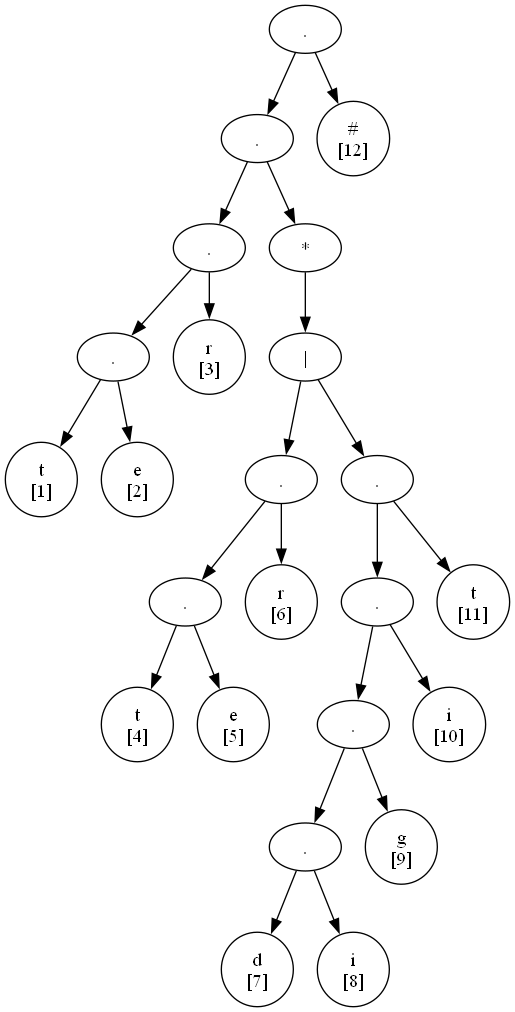
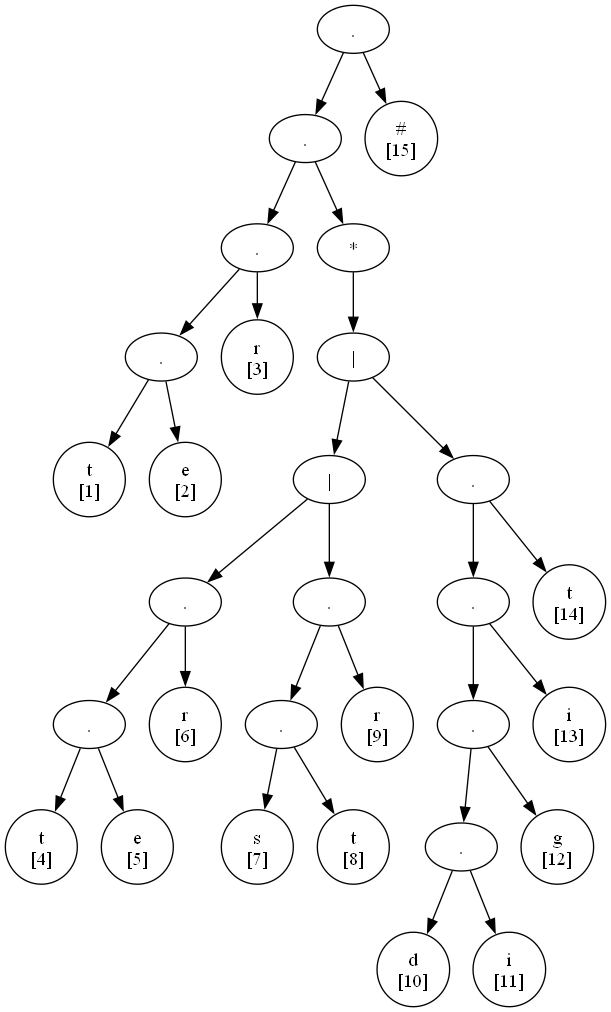
Reconocer 4 yal

diff --git a/src/utils/syntax_tree/build_tree.py b/src/utils/syntax_tree/build_tree.py
@@ -18,6 +18,9 @@ def build_syntax_tree(postfix):
     pos_to_symbol = {}
 
     for token in postfix:
+        print(f"[DEBUG] Procesando token: {token}")
+        
+        # Para operadores unarios (como *, +, ?)
         if token in {'*', '+', '?'}:
             if len(stack) < 1:
                 raise ValueError(f"Error: operador unario '{token}' sin operando suficiente. Stack actual: {stack}")
@@ -25,15 +28,45 @@ def build_syntax_tree(postfix):
             node = TreeNode(token)
             node.left = child
             stack.append(node)
+            print(f"[DEBUG] Pushed unary operator tree for {token}")
 
+        # Para operadores binarios (|, .)
         elif token in {'|', '.'}:
-            if len(stack) < 2:
-                raise ValueError(f"Error: operador binario '{token}' sin operandos suficientes. Stack actual: {stack}")
-            right = stack.pop()
-            left = stack.pop()
-            node = TreeNode(token, left, right)
-            stack.append(node)
+            print(f"[DEBUG] Stack antes de procesar el operador {token}: {stack}")
+            if token == '|':
+                if len(stack) < 2:
+                    raise ValueError(f"Error: operador binario '{token}' sin operandos suficientes para alternancia. Stack actual: {stack}")
+                right = stack.pop()
+                left = stack.pop()
+                print(f"[DEBUG] Operador binario | con operando izquierdo: {left.value} y derecho: {right.value}")
+                # Alternancia, si el operando derecho es ε, no lo añadimos a la pila
+                if right.value == "ε":
+                    stack.append(left)  # Solo se añade el operando izquierdo
+                else:
+                    node = TreeNode(token, left, right)
+                    stack.append(node)
+                print(f"[DEBUG] Alternancia con operando izquierdo: {left.value} y derecho: {right.value}")
+            
+            elif token == '.':
+                # Comprobamos si la pila tiene al menos 2 operandos
+                if len(stack) < 2:
+                    print(f"[DEBUG] No hay suficientes operandos para procesar el operador '.'. Stack actual: {stack}")
+                    continue  # No procesamos el operador hasta que haya suficientes operandos
 
+                right = stack.pop()
+                left = stack.pop()
+                print(f"[DEBUG] Operador binario . con operando izquierdo: {left.value} y derecho: {right.value}")
+                
+                # Concatenación, si el operando derecho es ε, solo agregamos el izquierdo
+                if right.value == "ε":
+                    print(f"[DEBUG] Concatenación con ε, solo agregando el operando izquierdo.")
+                    stack.append(left)
+                else:
+                    node = TreeNode(token, left, right)
+                    stack.append(node)
+                    print(f"[DEBUG] Concatenando {left.value} y {right.value}")
+
+        # Para operadores literales (tokens)
         else:
             node = TreeNode(token)
             node.position = position_counter[0]
@@ -41,8 +74,12 @@ def build_syntax_tree(postfix):
             node.firstpos = {node.position}
             node.lastpos = {node.position}
             stack.append(node)
+            print(f"[DEBUG] Literal procesado: {token}, pos: {node.position}")
             position_counter[0] += 1
 
+        print(f"[DEBUG] Stack actual después de procesar el token {token}: {stack}")
+    
+    # Verificar que la pila contenga solo un nodo (el árbol completo)
     if len(stack) != 1:
         raise ValueError(f"Error: el stack no tiene exactamente un árbol al final. Stack actual: {stack}")
 

diff --git a/src/utils/expand_expression.py b/src/utils/expand_expression.py
@@ -22,13 +22,13 @@ def replace_whole_word(s, word, replacement):
 
 def expand_lets(expr, definitions):
     changed = True
-    max_depth = 10  # para evitar loops infinitos
+    max_depth = 10
     depth = 0
     while changed and depth < max_depth:
         changed = False
         for ident, rule in definitions.items():
             if ident == rule:
-                continue  # evitar auto-referencias
+                continue
             pattern = f"({rule})"
             new_expr = replace_whole_word(expr, ident, pattern)
             if new_expr != expr:
@@ -37,7 +37,6 @@ def expand_lets(expr, definitions):
         depth += 1
     print(f"[LOG] Después de expand_lets: {expr}")
     return expr
-
 
 def expand_ranges(expr):
     result = ""
@@ -68,7 +67,8 @@ def expand_ranges(expr):
                     ch = content[k]
                     expanded.append(f"\\{ch}" if ch in SPECIAL_OPERATORS else ch)
                     k += 1
-            result += '(' + '|'.join(expanded) + ')'
+            joined = '|'.join(expanded)
+            result += '(' + joined + ')'  # agrupación segura sin comillas
             i = j + 1
         else:
             result += expr[i]
@@ -80,6 +80,9 @@ def escape_literals(expr):
     result = ""
     i = 0
     while i < len(expr):
+        if expr[i] == '"':
+            i += 1
+            continue
         if expr[i] == "'":
             j = i + 1
             literal = ""
@@ -100,15 +103,11 @@ def escape_literals(expr):
                 else:
                     literal += expr[j]
                     j += 1
-            if literal == "":
-                result += ""
-            else:
-
+            if literal:
                 result += '|'.join([
                     f"\\{ch}" if ch in SPECIAL_OPERATORS or not ch.isalnum() else ch
                     for ch in literal
                 ])
-
             i = j + 1
         else:
             result += expr[i]
@@ -173,10 +172,26 @@ def expand_expression(expr, definitions):
     expr = expand_lets(expr, definitions)
     expr = expand_ranges(expr)
     expr = escape_literals(expr)
-    expr = expr.replace(' ', '\\s')  # opcional según la semántica
+    expr = expr.replace(' ', '\\s')  # opcional
     expr = convert_plus(expr)
     expr = convert_optional(expr)
     expr = simplify_parens(expr)
 
+    # Validación extra para evitar | mal colocado
+    expr = expr.strip('|')  # Evitar '|' al inicio o final
+
+    if not validar_parentesis_balanceados(expr):
+        raise ValueError(f"❌ Paréntesis no balanceados en expresión final: {expr}")
+
     print(f"[LOG] Final expression: {expr}")
     return expr
+
+
+def validar_parentesis_balanceados(expr):
+    balance = 0
+    for ch in expr:
+        if ch == '(': balance += 1
+        elif ch == ')': balance -= 1
+        if balance < 0:
+            return False
+    return balance == 0

diff --git a/src/main_afd_test.py b/src/main_afd_test.py
@@ -19,22 +19,23 @@ def parse_yalex(file_path):
 
             # Definiciones
             if '=' in line and 'let' not in line:
-                key, value = line.split('=')
+                key, value = line.split('=', 1)
                 key = key.strip()
-
                 value = value.strip()
 
-                # Quitar brackets primero
+                # Quitar brackets exteriores si existen
                 if value.startswith('[') and value.endswith(']'):
-                    value = value[1:-1].strip()
-
-                # Luego quitar comillas si están
-                if (value.startswith('"') and value.endswith('"')) or (value.startswith("'") and value.endswith("'")):
                     value = value[1:-1]
 
+                # Quitar comillas exteriores si existen
+                if (value.startswith('"') and value.endswith('"')) or (value.startswith("'") and value.endswith("'")):
+                    value = value[1:-1].strip()
 
+                # Sanear cualquier comilla interna que haya quedado
+                value = value.replace('"', '').replace("'", '')
 
                 definitions[key] = value
+
 
             # Tokens
             elif line.startswith('let'):
@@ -44,6 +45,8 @@ def parse_yalex(file_path):
                 tokens[token_name] = regex
 
     return definitions, tokens
+
+
 
 
 # Paso 2: Generar AFD por cada token y graficar su árbol de expresión
@@ -82,7 +85,7 @@ def simular_afd(afd, entrada):
 
 # Ejemplo de ejecución:
 if __name__ == "__main__":
-    yal_file = "./yal/slr-2.yal"  # Cambia según el archivo que deseas procesar
+    yal_file = "./yal/slr-4.yal"  # Cambia según el archivo que deseas procesar
 
     if not os.path.exists(yal_file):
         print(f"❌ Archivo {yal_file} no encontrado")

diff --git a/src/regex_parser.py b/src/regex_parser.py
@@ -13,9 +13,14 @@ class RegexParser:
                 next_c = regex[i + 1]
                 if ((curr.isalnum() or curr in [')', '*', '?']) and
                     (next_c.isalnum() or next_c == '(' or next_c == '\\')):
-                    new_regex += '.'
+
+                    # Verificar si ya hay un '|' antes de añadirlo
+                    if new_regex[-1] != '|':
+                        new_regex += '.'
+                        print(f"[DEBUG] Adding concatenation: {curr} . {next_c}")
             i += 1
         return new_regex
+
 
     @staticmethod
     def infix_to_postfix(regex):
@@ -66,6 +71,12 @@ class RegexParser:
 
 def to_postfix(expr):
     print(f"[DEBUG] to_postfix input: {expr}")
+    
+    # Limpieza para eliminar '||' consecutivos
+    expr = re.sub(r'\|\|+', '|', expr)
+    expr = expr.strip('|')  # Eliminar | al principio y al final
+    print(f"[DEBUG] Postfix cleaned input: {expr}")
+    
     raw = RegexParser.infix_to_postfix(expr).replace(" ", "")
     print(f"[DEBUG] Postfix raw string: {raw}")
 
@@ -81,6 +92,7 @@ def to_postfix(expr):
 
     print(f"[DEBUG] Final tokens: {tokens}")
     return tokens
+
 
 
 # ----------------------------
